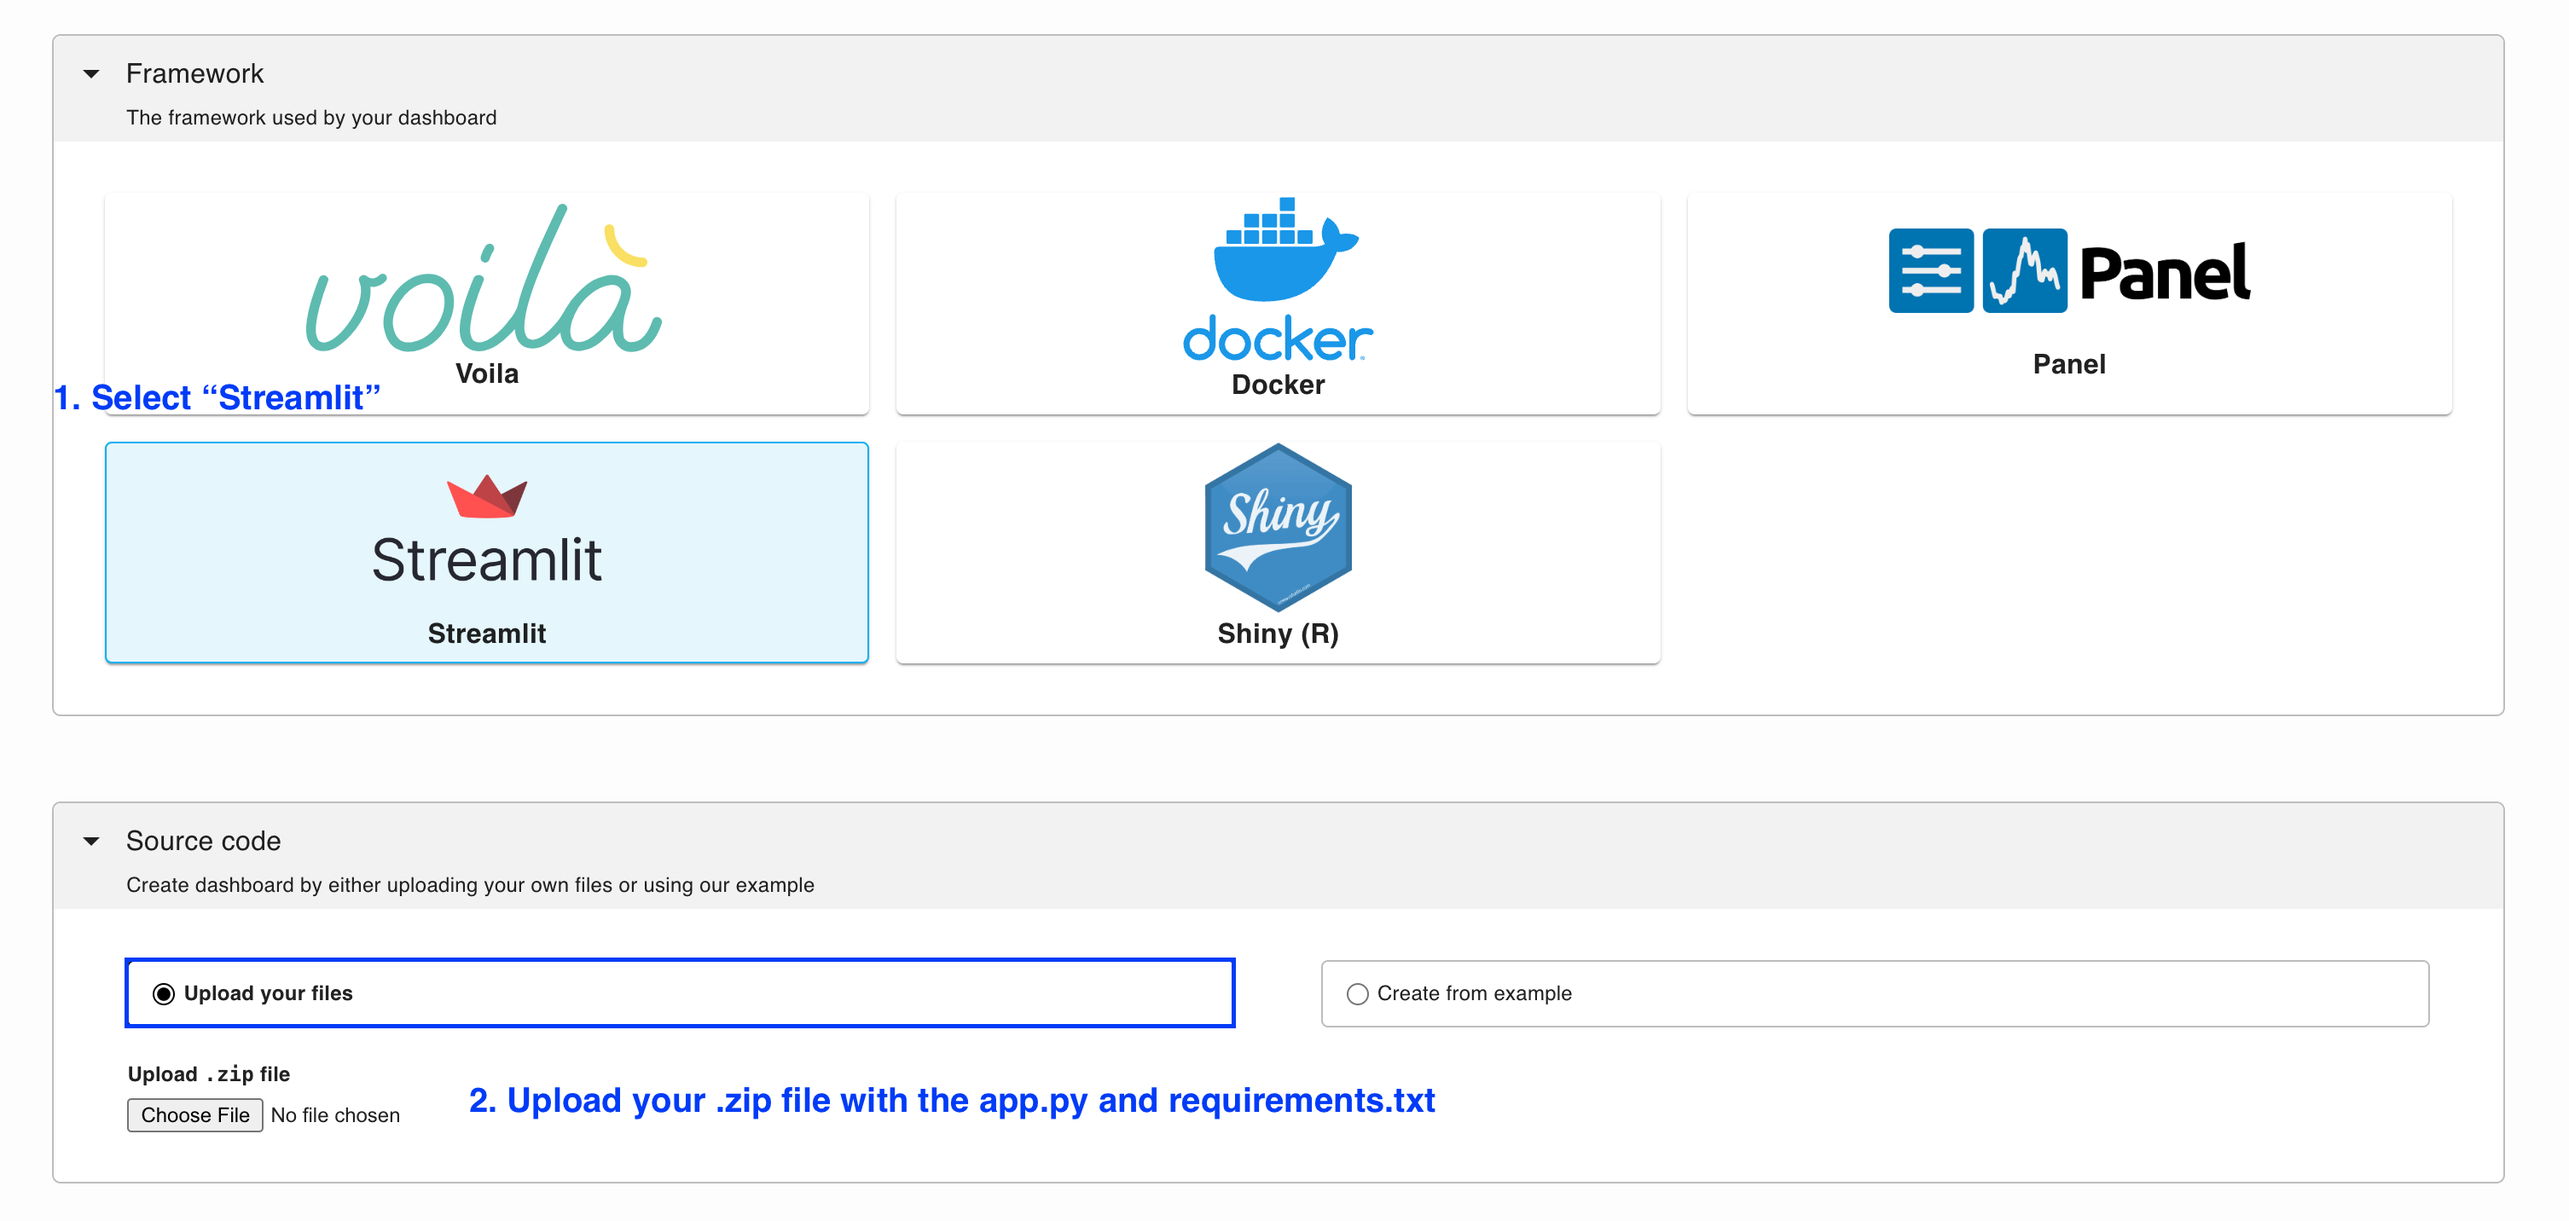
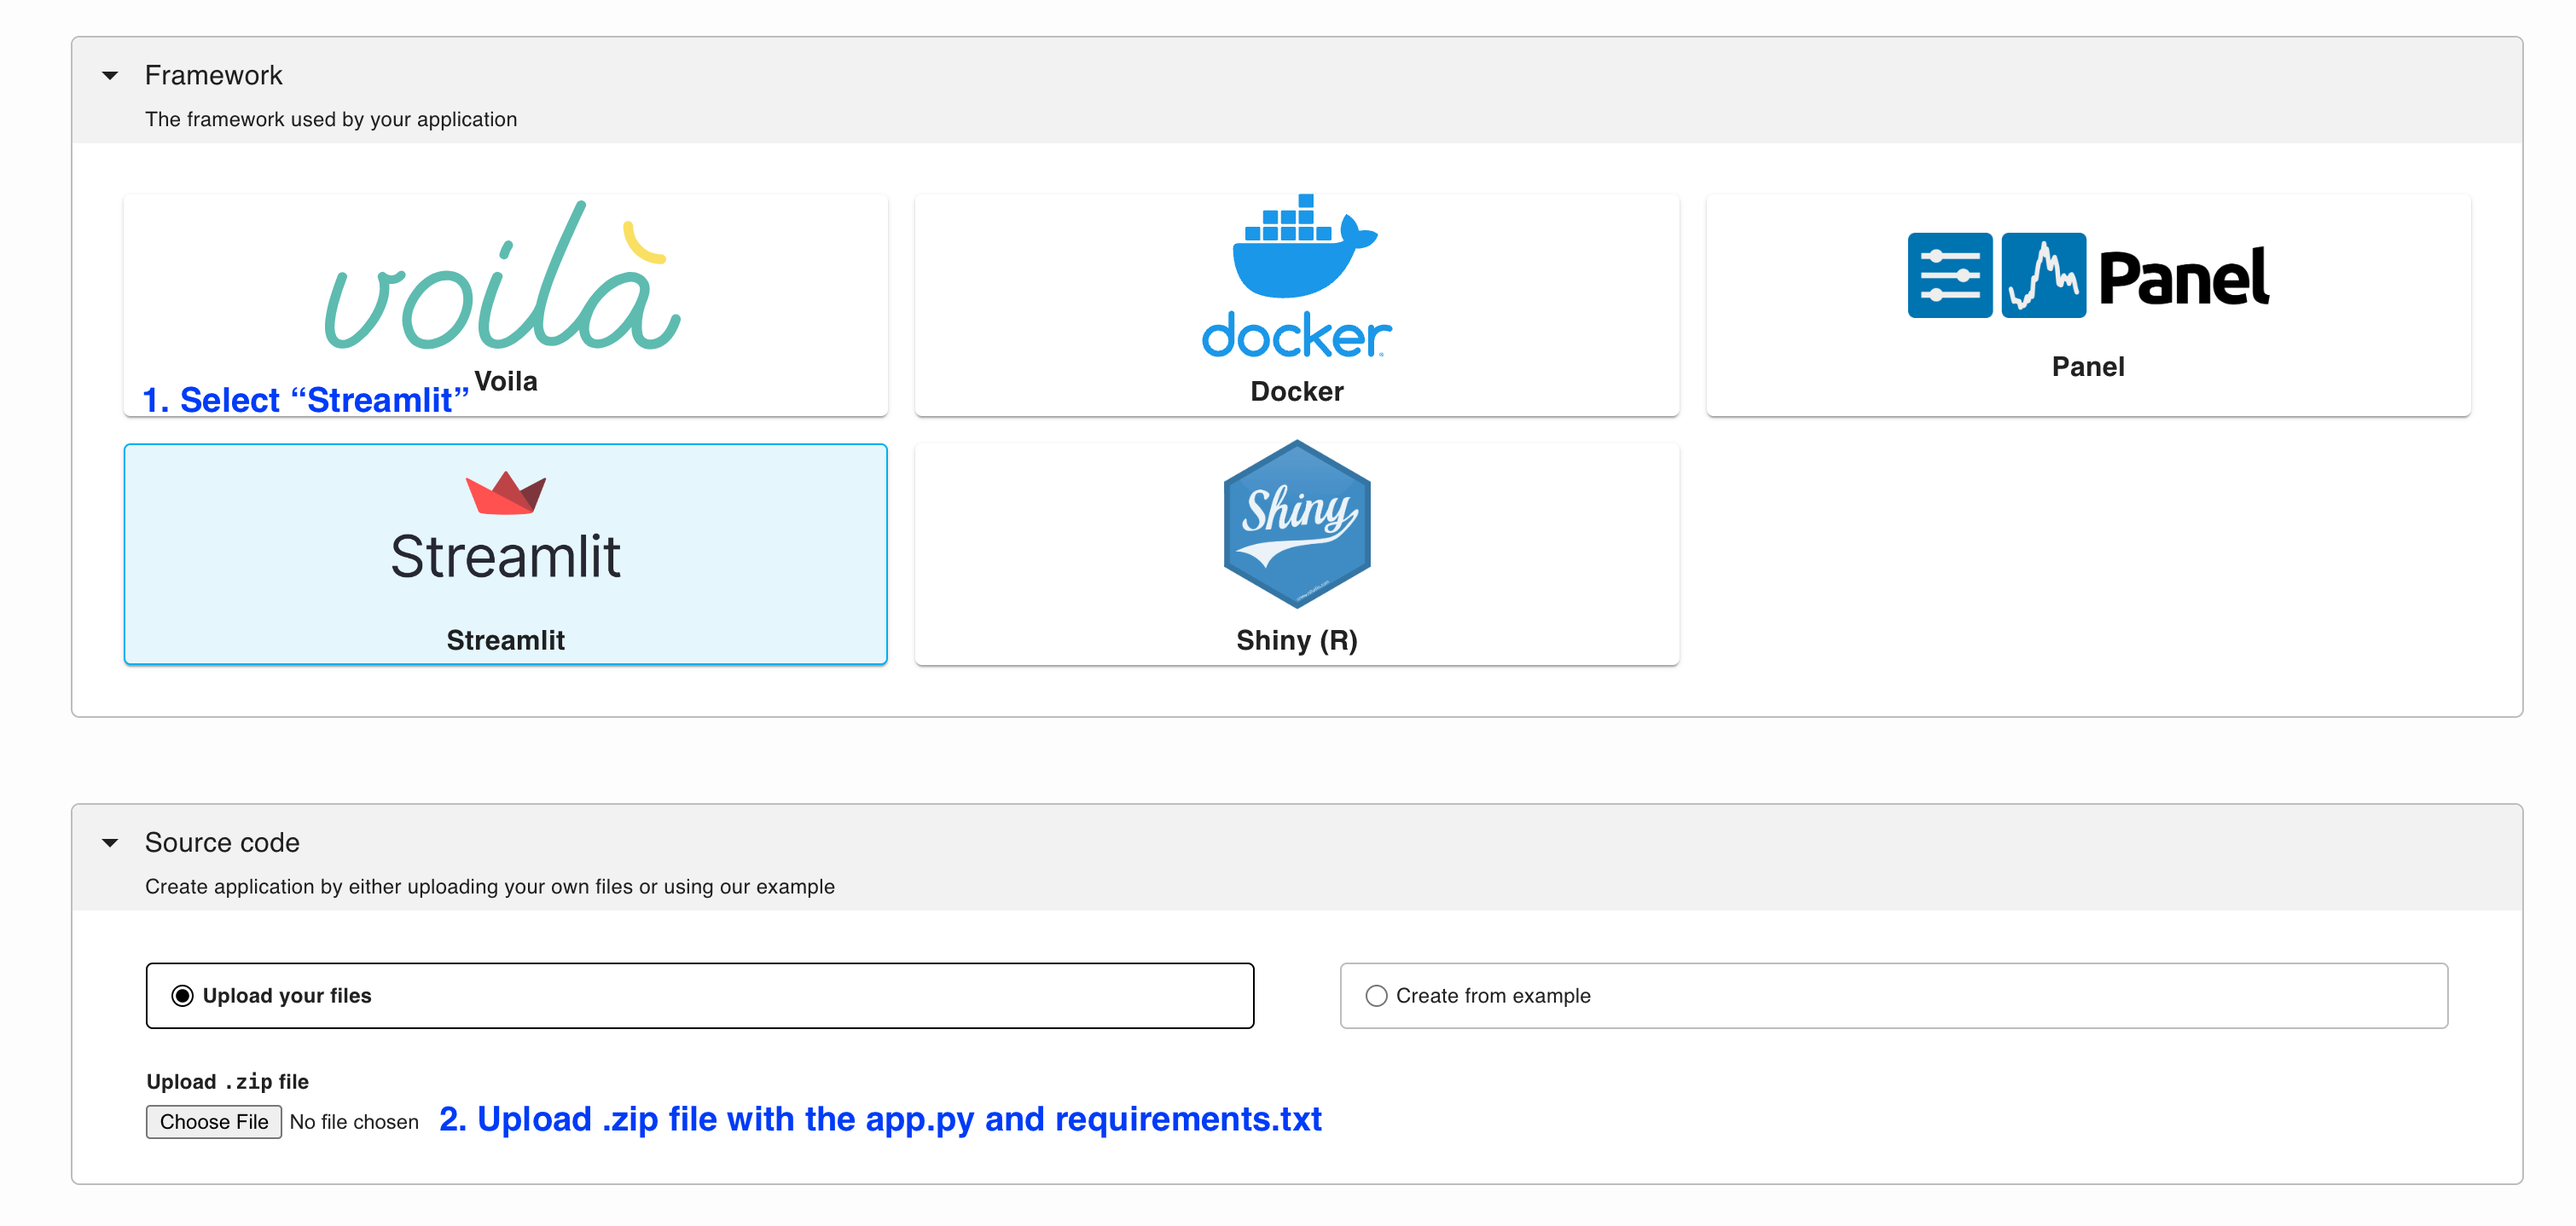
rename dashboard -> application

diff --git a/doc/quickstart/app.md b/doc/quickstart/app.md
@@ -4,27 +4,27 @@
 You can also deploy from the [terminal](../user-guide/cli.md) or [GitHub](../user-guide/github.md)
 ```
 
-## 1. Click on "Dashboards" -> "New"
+## 1. Click on "Applications" -> "New"
 
-![](../static/dashboards-new.png)
+![](../static/applications-new.png)
 
 
 ## 2. Fill out the form
 
 
-![](../static/dashboards-form.png)
+![](../static/applications-form.png)
 
 ## 3. Wait for the deployment to finish
 
-You'll see two tabs. First, you'll see the `DOCKER LOGS`, which show the progress of installing your dashboards's dependencies:
+You'll see two tabs. First, you'll see the `DOCKER LOGS`, which show the progress of installing your applications's dependencies:
 
-![](../static/dashboards-logs.png)
+![](../static/applications-logs.png)
 
 You can track progress completion from the status bar:
 
 
-![](../static/dashboards-progress.png)
+![](../static/applications-progress.png)
 
-At the beginning the `VIEW DASHBOARD` button in the top right will be greyed out, once deployment finalizes, you'll be able to click on it to see your app!
+At the beginning the `VIEW APPLICATION` button in the top right will be greyed out, once deployment finalizes, you'll be able to click on it to see your app!
 
-![](../static/dashboards-view.png)
+![](../static/applications-view.png)

diff --git a/doc/apps/voila.md b/doc/apps/voila.md
@@ -1,17 +1,17 @@
 # Voilà
 
 ```{tip}
-If you haven't deployed your first dashboard, check out the [quickstart guide.](../quickstart/app.md)
+If you haven't deployed your first application, check out the [quickstart guide.](../quickstart/app.md)
 ```
 
-To deploy a dashboard you need two files:
+To deploy a application you need two files:
 
 1. A Jupyter notebook file (`.ipynb`)
 2. A dependencies file (`requirements.txt`)
 
 ## Voilà
 
-Currently, Ploomber Cloud supports [Voilà](https://voila.readthedocs.io/en/stable/) for deploying Jupyter notebooks as dashboards. For information on how to write Voilà dashboards, [please check the documentation](https://voila.readthedocs.io/en/stable/).
+Currently, Ploomber Cloud supports [Voilà](https://voila.readthedocs.io/en/stable/) for deploying Jupyter notebooks as applications. For information on how to write Voilà applications, [please check the documentation](https://voila.readthedocs.io/en/stable/).
 
 Click here to see [some examples.](../examples/voila.md)
 
